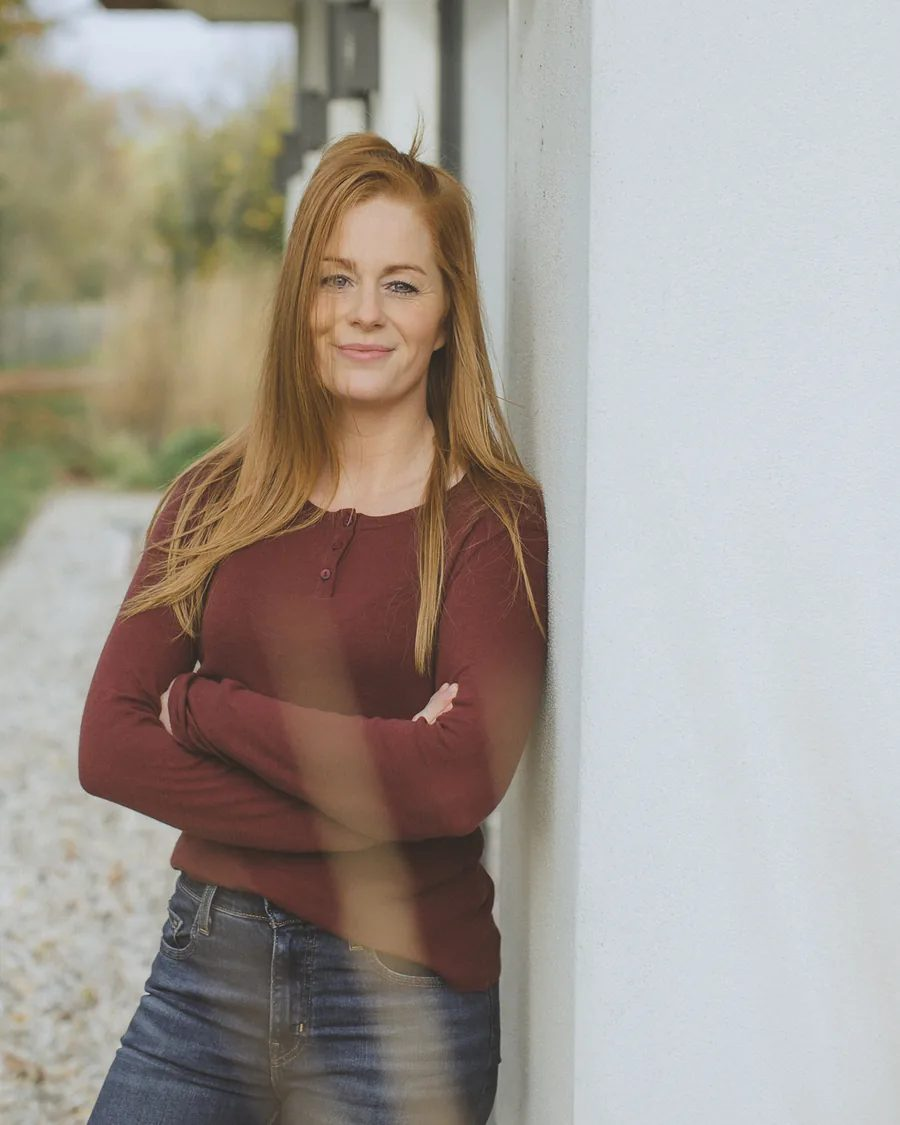
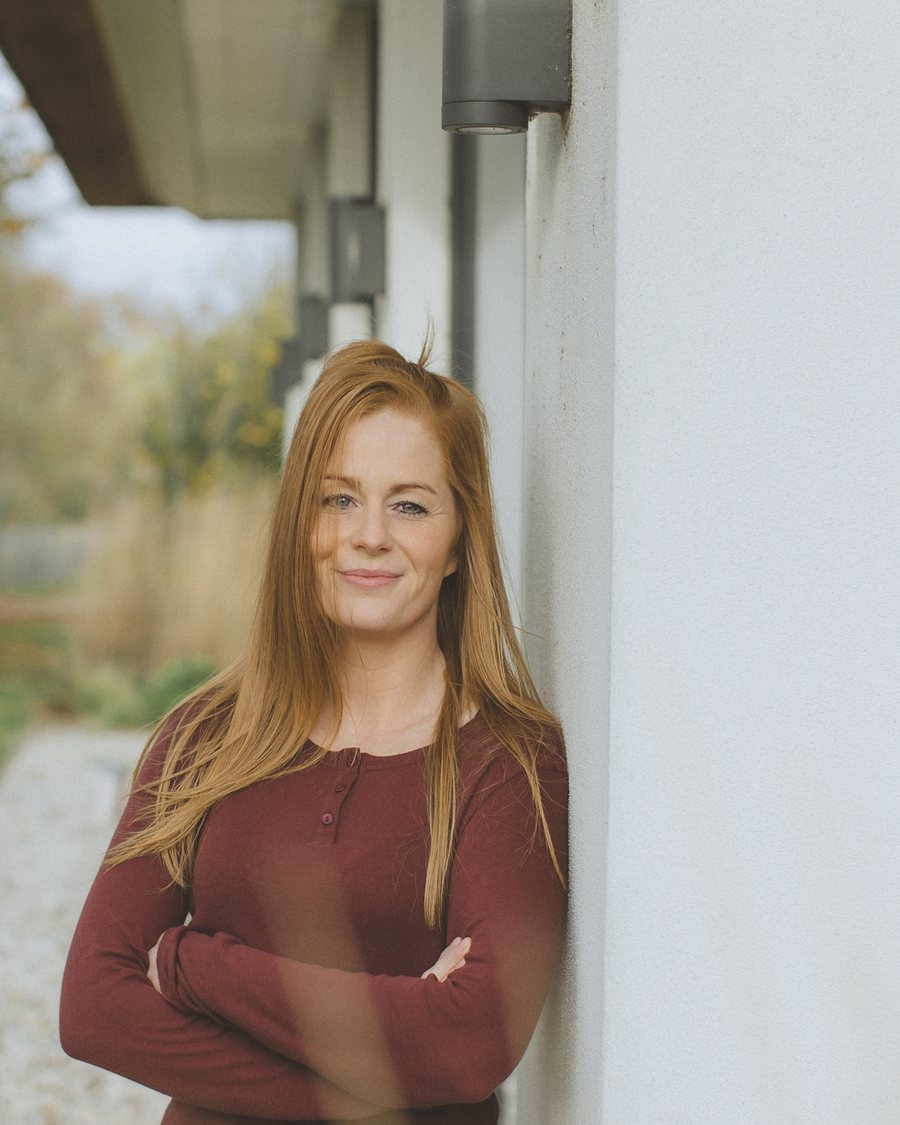
Add files via upload

diff --git a/assets/style.css b/assets/style.css
@@ -27,8 +27,13 @@
   --radius:18px;
   --radius-lg:28px;
 
-  /* Hoogte van het logo in de balk. Hier bijstellen als het groter of kleiner moet. */
-  --logo-h:100px;   /* door Jan aangepast van 30px naar 100px */
+  /* Hoogte van het beeldmerk in de balk. De naam staat eronder, dus de
+     bovenbalk wordt hoger dan bij een logo naast de naam. 70px houdt de
+     balk hanteerbaar; 100px kan ook, maar dan wordt hij fors. */
+  --logo-h:70px;
+
+  /* Grootte van de iconen bij Ons aanbod. Hier bijstellen. */
+  --icoon:130px;
 }
 
 *,*::before,*::after{box-sizing:border-box}
@@ -52,7 +57,7 @@ strong,b{font-weight:500}
 .wrap-narrow{max-width:830px;margin-inline:auto;padding-inline:var(--gutter)}
 .section{padding-block:var(--section)}
 .eyebrow{font-size:.72rem;font-weight:500;letter-spacing:.18em;text-transform:uppercase;
-  color:var(--sage);margin:0 0 1.15rem}
+  color:var(--clay);margin:0 0 1.15rem}
 .lead{font-size:clamp(1.03rem,1.5vw,1.18rem);color:var(--muted);max-width:64ch;font-weight:300}
 .muted{color:var(--muted)}
 
@@ -81,17 +86,18 @@ strong,b{font-weight:500}
 .header.scrolled{background:rgba(250,247,242,.9);backdrop-filter:blur(14px);
   box-shadow:0 1px 0 var(--line);padding-block:12px}
 .header-in{display:flex;align-items:center;justify-content:space-between;gap:24px}
-.brand{display:flex;align-items:center;gap:11px;font-size:1.32rem;font-weight:400;
-  white-space:nowrap;flex:0 0 auto;
-  letter-spacing:-.02em;color:var(--forest)}
+.brand{display:flex;flex-direction:column;align-items:center;gap:5px;
+  font-size:1.02rem;font-weight:400;white-space:nowrap;flex:0 0 auto;
+  letter-spacing:.01em;color:var(--forest);line-height:1.1}
 .brand img{height:var(--logo-h);width:auto;flex:0 0 auto}
-.nav{display:flex;align-items:center;gap:4px}
+.nav{display:flex;align-items:stretch;gap:2px}
 .nav > li{position:relative;list-style:none}
-.nav a,.nav .navbtn{display:block;font-size:.9rem;font-weight:400;color:var(--ink);white-space:nowrap;
-  padding:.6em .8em;border-radius:8px;transition:.2s;background:none;border:0;
+.nav a,.nav .navbtn{display:flex;align-items:center;min-height:2.6em;text-align:center;
+  font-size:.86rem;font-weight:400;color:var(--ink);line-height:1.25;
+  padding:.5em .6em;border-radius:8px;transition:.2s;background:none;border:0;
   font-family:var(--font);cursor:pointer}
 .nav a:hover,.nav .navbtn:hover,.nav a[aria-current]{color:var(--forest);background:rgba(124,154,139,.15)}
-.navlist{display:flex;gap:2px;margin:0;padding:0}
+.navlist{display:flex;gap:0;margin:0;padding:0;align-items:stretch}
 .navbtn::after{content:"";display:inline-block;width:5px;height:5px;margin-left:.5em;
   border-right:1.4px solid currentColor;border-bottom:1.4px solid currentColor;
   transform:rotate(45deg) translateY(-2px);transition:transform .2s}
@@ -156,8 +162,8 @@ li:hover > .submenu,li:focus-within > .submenu{opacity:1;visibility:visible;tran
 /* Bovenkant van de aanbodkaart is gecentreerd; de tekst eronder blijft
    links uitgelijnd, want gecentreerde lopende tekst leest trager. */
 .card-head{text-align:center;margin-bottom:1.5rem}
-.card-icon{width:88px;height:88px;display:grid;place-items:center;margin:0 auto 1.3rem}
-.card-icon img,.card-icon svg{width:88px;height:88px;object-fit:contain}
+.card-icon{width:var(--icoon);height:var(--icoon);display:grid;place-items:center;margin:0 auto 1.4rem}
+.card-icon img,.card-icon svg{width:100%;height:100%;object-fit:contain}
 .card-name{font-size:.72rem;letter-spacing:.2em;text-transform:uppercase;color:var(--clay);margin:0 0 .5rem}
 .card-head h3{margin-bottom:0}
 .card h3{margin-bottom:.6em}
@@ -196,10 +202,10 @@ li:hover > .submenu,li:focus-within > .submenu{opacity:1;visibility:visible;tran
 .approach{padding:30px 0;border-bottom:1px solid var(--line)}
 .approach:first-child{padding-top:0}
 .approach:last-child{border-bottom:0}
-.approach-no{font-size:.74rem;font-weight:500;letter-spacing:.16em;color:var(--sage)}
+.approach-no{font-size:.74rem;font-weight:500;letter-spacing:.16em;color:var(--clay)}
 .approach h3{margin:0 0 .6em}
 .approach-wie{display:inline-block;font-size:.7rem;font-weight:500;letter-spacing:.14em;
-  text-transform:uppercase;color:var(--sage);background:var(--sage-light);
+  text-transform:uppercase;color:var(--clay);background:var(--sage-light);
   padding:.35em .85em;border-radius:999px;vertical-align:middle;margin-left:.6em}
 .approach p{font-size:.96rem;color:var(--muted);margin:0}
 
@@ -208,11 +214,13 @@ li:hover > .submenu,li:focus-within > .submenu{opacity:1;visibility:visible;tran
 .split-img{border-radius:var(--radius-lg);overflow:hidden;aspect-ratio:5/6}
 .split-img img{width:100%;height:100%;object-fit:cover}
 .split-img.wide{aspect-ratio:16/11}
+.artikel-beeld{background:var(--sand);display:grid;place-items:center}
+.artikel-beeld img{object-fit:contain}
 
 /* ---------- Resultaten ---------- */
 .results-grid{display:grid;grid-template-columns:repeat(auto-fit,minmax(175px,1fr));gap:clamp(22px,2.6vw,34px)}
 .result{border-top:1px solid var(--line);padding-top:20px}
-.result-icon{display:block;color:var(--sage);margin-bottom:14px}
+.result-icon{display:block;color:var(--clay);margin-bottom:14px}
 .result-icon svg{width:26px;height:26px}
 .result strong{display:block;font-size:1.1rem;font-weight:400;line-height:1.3;
   color:var(--forest);margin-bottom:.4em;letter-spacing:-.015em}
@@ -405,7 +413,7 @@ picture{display:contents}
 
 /* Bovenbalk: logo links, menu gecentreerd, knop rechts */
 .header-in{display:grid;grid-template-columns:max-content minmax(0,1fr) max-content;
-  align-items:center;gap:24px}
+  align-items:center;gap:clamp(12px,2vw,28px)}
 .header-in nav{justify-self:center}
 .nav{justify-content:center}
 
@@ -416,8 +424,11 @@ picture{display:contents}
 
 /* Quote: uitspraak iets rustiger, ondertitel wat prominenter */
 .quote blockquote{font-size:clamp(1.25rem,2.5vw,1.95rem)}
-.quote-kort{padding-block:clamp(38px,5vw,64px)}
-.quote-kort blockquote{max-width:none;font-size:clamp(1.5rem,3vw,2.3rem)}
+/* Korte merkregel: geen vlak, alleen tekst met ruimte eromheen */
+.quote-kort{background:none;color:inherit;padding-block:clamp(30px,4.5vw,58px);padding-inline:0}
+.quote-kort::after{content:none}
+.quote-kort blockquote{max-width:none;color:var(--forest);
+  font-size:clamp(1.5rem,3vw,2.3rem);letter-spacing:-.02em}
 .quote figcaption{margin-top:2.1rem;font-size:1rem;letter-spacing:.12em;
   text-transform:none;color:var(--sage)}
 
@@ -480,3 +491,14 @@ picture{display:contents}
 .ijs-laag.onderwater .ijs-num{background:rgba(250,247,242,.16);color:var(--cream)}
 .ijs-laag.onderwater strong{color:var(--cream)}
 .ijs-laag.onderwater span{color:rgba(250,247,242,.75)}
+
+/* IJsberg: topje boven water, drie lagen eronder */
+.ijs-top{display:flex;gap:18px;padding:20px 22px;background:var(--cream);
+  border:1px solid var(--line);border-bottom:0;border-radius:var(--radius) var(--radius) 0 0}
+.ijs-top strong{display:block;font-weight:400;font-size:1.02rem;color:var(--forest);
+  margin-bottom:.25em;letter-spacing:-.01em}
+.ijs-top span{font-size:.92rem;color:var(--muted);line-height:1.6}
+.ijs-tip{flex:0 0 28px;height:28px;display:block;
+  background:linear-gradient(to bottom right,transparent 49%,var(--clay) 50%);
+  clip-path:polygon(50% 0,100% 100%,0 100%)}
+.ijsberg{border-radius:var(--radius)}

diff --git a/build.py b/build.py
@@ -11,6 +11,21 @@ import os, re
 OUT = os.path.dirname(os.path.abspath(__file__))
 
 CLEM = "https://backpack.clientomgeving.nl/afspraak-maken?t=gbFxFmGj"
+
+# Waar de knop "Plan gratis kennismaking" naartoe gaat.
+# Nu tijdelijk het contactformulier. Wil je later weer rechtstreeks naar
+# het afspraaksysteem van Clementine? Zet dan KENNISMAKING = CLEM en
+# EXTERN_KENNISMAKING = True, en draai build.py opnieuw.
+KENNISMAKING = "contact.html"
+EXTERN_KENNISMAKING = False
+
+
+def kennismaking_attrs(depth=0):
+    """Levert href plus de bijbehorende attributen voor de kennismakingsknop."""
+    if EXTERN_KENNISMAKING:
+        return f'href="{KENNISMAKING}" target="_blank" rel="noopener" data-book="clementine"'
+    return f'href="{"../" * depth}{KENNISMAKING}" data-cta="kennismaking"'
+
 MAAIKE = ("https://widget.onlineafspraken.nl/consumer/booking/book/key/bcah63qhqt55-zzaz41"
           "/l/31112/ln/nl/t/8080dc/f/110e0011/o/theme:gray,dp:modern/at/0/rs/0/pp/0/output/html")
 LOGO_BESTAND = "images/logo-backpack.svg"   # zie LEES-MIJ.md
@@ -80,7 +95,7 @@ def header(active="", depth=0):
       </ul>
     </nav>
     <div style="display:flex;align-items:center;gap:8px">
-      <a class="btn btn-primary" href="{CLEM}" target="_blank" rel="noopener" data-book="clementine">
+      <a class="btn btn-primary" {kennismaking_attrs(depth)}>
         Plan gratis kennismaking <span class="arw">&rarr;</span></a>
       <button class="burger" id="burger" aria-label="Menu openen" aria-expanded="false" aria-controls="navlist">
         <span></span><span></span><span></span></button>
@@ -102,7 +117,7 @@ def cta(depth=0, direct=True):
       <h2>zullen we kennismaken?</h2>
       <p>Twintig minuten, vrijblijvend en gratis. Je ontdekt of onze aanpak bij je past —
       en wij of we je verder kunnen helpen.</p>
-      <a class="btn btn-light" href="{CLEM}" target="_blank" rel="noopener" data-book="clementine">
+      <a class="btn btn-light" {kennismaking_attrs(depth)}>
         Plan gratis kennismaking <span class="arw">&rarr;</span></a>
 {regel}
     </div>
@@ -143,7 +158,7 @@ def footer(depth=0):
         <h4>praktisch</h4>
         <ul>
           <li><a href="{r}contact.html">Contact</a></li>
-          <li><a href="{CLEM}" target="_blank" rel="noopener" data-book="clementine">Plan kennismaking</a></li>
+          <li><a {kennismaking_attrs(depth)}>Plan kennismaking</a></li>
           <li><a href="{r}tarieven.html">Tarieven</a></li>
           <li><a href="{r}algemene-voorwaarden.html">Algemene voorwaarden</a></li>
           <li><a href="{r}privacyverklaring.html">Privacyverklaring</a></li>
@@ -418,10 +433,9 @@ HOME = f"""<main id="top">
       <p class="eyebrow">Backpack &middot; Amsterdam &middot; Voorschoten &middot; Online</p>
       <h1>je klachten hebben<br>een <em>verhaal</em></h1>
       <p class="lead">Vastgelopen in patronen, aanhoudende klachten of stress die niet weggaat?
-        Wij zoeken samen naar de oorzaak — niet naar symptoombestrijding. Om van daaruit te
-        bewegen naar meer balans.</p>
+        Wij zoeken samen naar de oorzaak. Om van daaruit te bewegen naar meer balans.</p>
       <div class="btn-row">
-        <a class="btn btn-primary" href="{CLEM}" target="_blank" rel="noopener" data-book="clementine">
+        <a class="btn btn-primary" {kennismaking_attrs()}>
           Plan gratis kennismaking <span class="arw">&rarr;</span></a>
         <a class="btn btn-ghost" href="#aanbod">Bekijk ons aanbod</a>
       </div>
@@ -651,6 +665,12 @@ HOME = f"""<main id="top">
         wordt lichter en er ontstaat ruimte voor heling en groei.</p></article>
 
       <div class="ijsberg reveal">
+        <div class="ijs-top">
+          <span class="ijs-tip"></span>
+          <div><strong>Je klacht of thema</strong>
+            <span>Datgene waar je verandering in wilt. Wat je ziet en voelt.</span></div>
+        </div>
+        <div class="ijs-water"><span>Wat eronder ligt</span></div>
         <div class="ijs-laag">
           <span class="ijs-num">1</span>
           <div><strong>Symptoomverlichting &amp; behandeling</strong>
@@ -662,7 +682,6 @@ HOME = f"""<main id="top">
             <span>Een gezonde basis bouwen met aandacht voor voeding, beweging, slaap,
             ontspanning, verbinding en zingeving.</span></div>
         </div>
-        <div class="ijs-water"><span>Onder de waterlijn</span></div>
         <div class="ijs-laag onderwater">
           <span class="ijs-num">3</span>
           <div><strong>Jouw Backpack: bewustwording en verwerking</strong>
@@ -670,8 +689,10 @@ HOME = f"""<main id="top">
             de onverwerkte ervaringen verwerken die je — vaak onbewust — met je meedraagt.</span></div>
         </div>
       </div>
-      <p class="muted" style="font-size:.9rem;margin-top:1.2rem">Zoals bij een ijsberg zie je meestal
-        alleen de bovenste laag. Wij kijken ook naar wat eronder zit.</p>
+      <p class="muted" style="font-size:.9rem;margin-top:1.2rem">Ieder mens draagt een rugzak met
+        talenten, kwaliteiten en ervaringen. Soms voel je hem nauwelijks, soms voelt hij zwaar. Wij
+        geloven dat chronische klachten zelden op zichzelf staan: onder wat je ziet en voelt, liggen
+        vaak diepere lagen. Dit zijn de drie lagen waarop je kunt werken.</p>
     </div>
   </div>
 </section>
@@ -684,8 +705,8 @@ HOME = f"""<main id="top">
     </div>
     <div class="results-grid">
       <div class="result"><span class="result-icon"><svg viewBox="0 0 24 24" fill="none" stroke="currentColor" stroke-width="1.4" stroke-linecap="round" stroke-linejoin="round" aria-hidden="true"><path d="M12 20c0-5 3-9 8-10-1 6-4 9-8 10Z"/><path d="M12 20c0-4-2.5-7.5-7-8.5.8 5 3.4 7.9 7 8.5Z"/><path d="M12 20v2"/></svg></span><strong>Betere zelfzorg</strong><p>Concrete handvatten voor een gezondere leefstijl.</p></div>
-      <div class="result"><span class="result-icon"><svg viewBox="0 0 24 24" fill="none" stroke="currentColor" stroke-width="1.4" stroke-linecap="round" stroke-linejoin="round" aria-hidden="true"><path d="M12 3.5v17.5M7.5 21h9M4.5 7.5h15M12 5.6 4.7 7.4M12 5.6l7.3 1.8M4.7 7.4 1.9 14a3.2 3.2 0 0 0 5.6 0Z M19.3 7.4 16.5 14a3.2 3.2 0 0 0 5.6 0Z"/></svg></span><strong>Minder klachten</strong><p>Klachten en patronen kunnen verminderen of verdwijnen.</p></div>
-      <div class="result"><span class="result-icon"><svg viewBox="0 0 24 24" fill="none" stroke="currentColor" stroke-width="1.4" stroke-linecap="round" stroke-linejoin="round" aria-hidden="true"><circle cx="12" cy="12" r="2.2"/><path d="M12 5.5a6.5 6.5 0 0 1 6.5 6.5"/><path d="M12 2a10 10 0 0 1 10 10"/><path d="M12 18.5A6.5 6.5 0 0 1 5.5 12"/><path d="M12 22A10 10 0 0 1 2 12"/></svg></span><strong>Innerlijke rust &amp; helderheid</strong><p>Meer rust in je hoofd, meer richting.</p></div>
+      <div class="result"><span class="result-icon"><svg viewBox="0 0 24 24" fill="none" stroke="currentColor" stroke-width="1.4" stroke-linecap="round" stroke-linejoin="round" aria-hidden="true"><path d="M2 8c2 0 2 5 4 5s2-9 4-9 2 12 4 12 2-6 4-6 2 2 4 2"/></svg></span><strong>Minder klachten</strong><p>Klachten en patronen kunnen verminderen of verdwijnen.</p></div>
+      <div class="result"><span class="result-icon"><svg viewBox="0 0 24 24" fill="none" stroke="currentColor" stroke-width="1.4" stroke-linecap="round" stroke-linejoin="round" aria-hidden="true"><circle cx="12" cy="11" r="1.4"/><ellipse cx="12" cy="11" rx="5" ry="1.9"/><ellipse cx="12" cy="11" rx="9.2" ry="3.6"/><path d="M3 17.5c2.4 1.2 5.5 1.9 9 1.9s6.6-.7 9-1.9"/></svg></span><strong>Innerlijke rust &amp; helderheid</strong><p>Meer rust in je hoofd, meer richting.</p></div>
       <div class="result"><span class="result-icon"><svg viewBox="0 0 24 24" fill="none" stroke="currentColor" stroke-width="1.4" stroke-linecap="round" stroke-linejoin="round" aria-hidden="true"><path d="M13 2.5 5.5 13.5H11l-1 8 8-11h-5.5l.5-8Z"/></svg></span><strong>Energie &amp; veerkracht</strong><p>Hernieuwde levensenergie en meer veerkracht.</p></div>
       <div class="result"><span class="result-icon"><svg viewBox="0 0 24 24" fill="none" stroke="currentColor" stroke-width="1.4" stroke-linecap="round" stroke-linejoin="round" aria-hidden="true"><circle cx="12" cy="19.4" r="2.1"/><circle cx="5" cy="6" r="2.1"/><circle cx="19" cy="6" r="2.1"/><path d="M12 17.3v-4.6M10.4 11.4 6.5 7.7M13.6 11.4l3.9-3.7"/></svg></span><strong>Systemisch inzicht</strong><p>Inzicht in je familiesysteem en bewustwording van je Backpack — wat je meedraagt en wat je onbewust meedroeg.</p></div>
     </div>
@@ -1193,6 +1214,16 @@ def bouw_checkup():
     s = s.replace("'Inter', sans-serif", "'Work Sans', sans-serif")
     s = s.replace("'Inter',sans-serif", "'Work Sans',sans-serif")
 
+    # 1b. tekstwijzigingen van Clementine
+    s = s.replace("Bij Backpack geloven we dat klachten zelden op zichzelf staan.",
+                  "Bij Backpack geloven we dat chronische klachten zelden op zichzelf staan.")
+    s = s.replace("De drie lagen waarop je kunt werken", "Drie lagen waarop je kunt werken")
+
+    # 1c. de kennismakingsknop volgt de instelling van de site
+    if not EXTERN_KENNISMAKING:
+        s = s.replace('href="https://backpack.clientomgeving.nl/afspraak-maken?t=gbFxFmGj"',
+                      'href="contact.html"')
+
     # 2. verouderde link herstellen
     s = s.replace("https://mybackpack.nl/Clementine.html", "clementine.html")
     s = s.replace('<a href="clementine.html" class="btn-secondary" target="_blank">',
@@ -1616,7 +1647,7 @@ CONTACT = f"""<main>
       <h2 style="font-size:clamp(1.4rem,2.4vw,1.85rem)">stel je vraag</h2>
       <!-- Het attribuut data-netlify zorgt dat Netlify de verzending gratis afhandelt.
            Bij een andere hostingpartij vervang je dit door hun formulier-adres. -->
-      <form class="form" name="contact" method="POST" action="/bedankt.html"
+      <form class="form" id="contactformulier" name="contact" method="POST" action="/bedankt.html"
             data-netlify="true" data-netlify-honeypot="bot-field" style="margin-top:1.6rem">
         <input type="hidden" name="form-name" value="contact">
         <p hidden><label>Niet invullen: <input name="bot-field"></label></p>
@@ -1656,8 +1687,8 @@ CONTACT = f"""<main>
         <p style="margin:.9rem 0 0;color:var(--muted);font-size:.95rem">Twintig minuten,
           vrijblijvend en gratis.</p>
         <div class="btn-row" style="margin-top:1.4rem">
-          <a class="btn btn-primary" href="{CLEM}" target="_blank" rel="noopener" data-book="clementine">
-            Plan kennismaking <span class="arw">&rarr;</span></a>
+          <a class="btn btn-primary" href="#contactformulier">
+            Naar het formulier <span class="arw">&rarr;</span></a>
         </div>
       </div>
 
@@ -1723,7 +1754,7 @@ BEDANKT = f"""<main>
     <p class="lead">We hebben je bericht ontvangen en reageren meestal binnen een werkdag.
       Heb je haast? Plan gerust alvast een gratis kennismaking.</p>
     <div class="btn-row">
-      <a class="btn btn-primary" href="{CLEM}" target="_blank" rel="noopener" data-book="clementine">
+      <a class="btn btn-primary" {kennismaking_attrs()}>
         Plan gratis kennismaking <span class="arw">&rarr;</span></a>
       <a class="btn btn-ghost" href="index.html">Terug naar de homepage</a>
     </div>
@@ -1860,7 +1891,7 @@ def article(bestand, categorie, titel, samenvatting, afbeelding, leestijd, datum
 
 <section style="padding-bottom:clamp(36px,4.5vw,60px)">
   <div class="wrap-narrow">
-    <div class="split-img wide reveal" style="aspect-ratio:16/9">
+    <div class="split-img wide artikel-beeld reveal" style="aspect-ratio:16/9">
       <img src="{afbeelding}" alt="" loading="lazy">
     </div>
   </div>

diff --git a/tools/fotos.py b/tools/fotos.py
@@ -34,7 +34,7 @@ UITSNEDES = [
     ("AM2A5095.jpg",        "contact-duo",                1000, 1250, (0, .06, 1, 1)),
     ("pAM2A4857_pp(1).jpg", "portret-clementine",          900, 1125, (0, 0, 1, .88)),
     ("AM2A4528.jpg",        "portret-clementine-alt",      900, 1125, (.12, .16, .98, 1)),
-    ("AM2A4449.jpg",        "portret-maaike",              900, 1125, (.18, .22, .96, 1)),
+    ("AM2A4449.jpg",        "portret-maaike",              900, 1125, (.20, .10, .92, .86)),
     ("AM2A4684.jpg",        "portret-maaike-alt",          900, 1125, (.22, .22, 1, 1)),
     ("pAM2A4857_pp(1).jpg", "avatar-clementine",           280,  280, (.10, .05, .86, .74)),
     ("AM2A4449.jpg",        "avatar-maaike",               280,  280, (.365, .295, .655, .58)),
